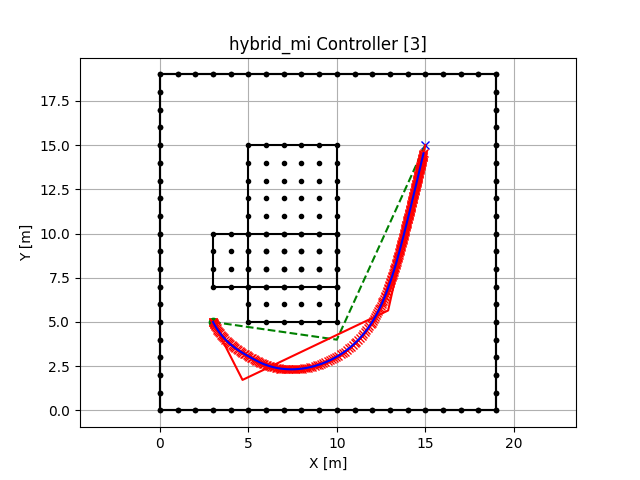
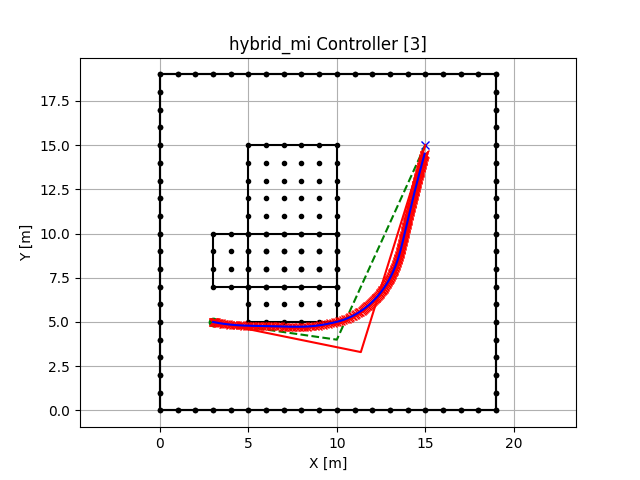
temp for test

Changed region(s): [[0.3125, 0.3125, 0.6875, 0.8125]]

diff --git a/controller/hybrid_mi_controller.py b/controller/hybrid_mi_controller.py
@@ -14,41 +14,50 @@ from controller.pure_pursuit_controller import PurePursuitController
 
 from route_planner.informed_trrt_star_planner import Pose, InformedTRRTStar
 
-def mutual_information(route1, route2):
-    """두 경로 간의 상호 정보를 계산"""
-    hist1, _ = np.histogram(route1, bins=20, density=True)
-    hist2, _ = np.histogram(route2, bins=20, density=True)
-    entropy1 = entropy(hist1)
-    entropy2 = entropy(hist2)
-    joint_hist, _, _ = np.histogram2d(route1[:, 0], route2[:, 0], bins=20, density=True)
-    joint_entropy = entropy(joint_hist.flatten())
-    mi = entropy1 + entropy2 - joint_entropy
-    nmi = mi / np.sqrt(entropy1 * entropy2) # normalized mutual information
-    return nmi
+# Mutual Information을 계산하는 함수
+def mutual_information(state1, state2):
+    """두 상태 간의 Mutual Information 계산"""
+    mi_list = []
+    
+    # x, y, theta, velocity 각각에 대해 Mutual Information 계산
+    for i in range(4):  # [x, y, theta, velocity]
+        hist1, _ = np.histogram(state1[:, i], bins=5, density=True)
+        hist2, _ = np.histogram(state2[:, i], bins=5, density=True)
+        print(f"State {i} Histograms: {hist1}, {hist2}")
+        
+        entropy1 = entropy(hist1)
+        entropy2 = entropy(hist2)
+        print(f"State {i} Entropy: {entropy1}, {entropy2}")
+        
+        joint_hist, _, _ = np.histogram2d(state1[:, i], state2[:, i], bins=5, density=True)
+        joint_entropy = entropy(joint_hist.flatten())
+        print(f"Joint Entropy: {joint_entropy}")
+        
+        # Mutual Information 계산
+        mi = entropy1 + entropy2 - joint_entropy
+        mi_list.append(mi)
+    
+    # 각 상태에 대한 Mutual Information 반환
+    return np.array(mi_list)
 
-def optimize_combined_path(state_mpc, state_pure_pursuit, mi):
-    """현재 스텝에서 두 경로를 상호 정보에 따라 결합하여 최적 경로 상태 생성"""
-    if mi > 0.5:  # 상호 정보가 낮을 때 하나의 경로를 더 선호
-        weight1 = 0.5
-        weight2 = 0.5
-    elif mi > 0.2:
-        weight1 = 0.8
-        weight2 = 0.2
-    elif mi < 0.2:
-        weight1 = 1
-        weight2 = 0
-
-    combined_x = weight1 * state_mpc[0] + weight2 * state_pure_pursuit[0]
-    combined_y = weight1 * state_mpc[1] + weight2 * state_pure_pursuit[1]
-    combined_theta = weight1 * state_mpc[2] + weight2 * state_pure_pursuit[2]
-
-    return np.array([combined_x, combined_y, combined_theta, state_mpc[3]])  # 속도는 MPC를 기준으로
+# 두 알고리즘의 상태를 결합하는 함수
+def combine_states(state1, state2, mi):
+    """Mutual Information 기반으로 상태를 결합"""
+    combined_state = np.zeros_like(state1)
+    
+    # Mutual Information을 바탕으로 각 상태에 가중치를 부여하여 결합
+    for i in range(4):  # [x, y, theta, velocity]
+        weight1 = mi[i] / (mi[i] + 1)  # Mutual Information 비율에 따른 가중치
+        weight2 = 1 - weight1
+        combined_state[:, i] = weight1 * state1[:, i] + weight2 * state2[:, i]
+    
+    return combined_state
 
 class HybridMIController(BaseController):
     def __init__(self, horizon, dt, wheelbase, map_instance):
         super().__init__(dt, wheelbase, map_instance)
         self.mpc_controller = AdaptiveMPCController(horizon=horizon, dt=dt, wheelbase=wheelbase, map_instance=map_instance)
-        self.pure_pursuit_controller = PurePursuitController(lookahead_distance=5.0, dt=dt, wheelbase=wheelbase, map_instance=map_instance)
+        # self.pure_pursuit_controller = PurePursuitController(lookahead_distance=5.0, dt=dt, wheelbase=wheelbase, map_instance=map_instance)
 
     def follow_trajectory(self, start_pose, ref_trajectory, goal_position, show_process=False):
         # 초기 상태 설정
@@ -56,31 +65,33 @@ class HybridMIController(BaseController):
         trajectory = [current_state.copy()]
 
         for i in range(len(ref_trajectory)):
-            if self.mpc_controller.is_goal_reached(current_state, goal_position):
+            if np.all(self.mpc_controller.is_goal_reached(current_state, goal_position)):
                 print("Goal reached successfully!")
                 break
 
             # MPC와 Pure Pursuit에서 각각의 상태 예측
             ref_segment = ref_trajectory[i:i + self.mpc_controller.horizon]
-            state_mpc = self.mpc_controller.optimize_control(current_state, ref_segment)
-            next_state_mpc = self.mpc_controller.apply_control(current_state, state_mpc)
+            ref_segment_interpole = transform_trajectory_with_angles(ref_segment[:3], num_points=4, last_segment_factor=1)
+            
+            control_input, best_predicted_states = self.mpc_controller.optimize_control(current_state, ref_segment)
+            # next_state_mpc = self.mpc_controller.apply_control(current_state, control_input)
 
-            target_state = self.pure_pursuit_controller.find_target_state(current_state, ref_trajectory)
-            steering_angle_pure_pursuit = self.pure_pursuit_controller.compute_control(current_state, target_state)
-            next_state_pure_pursuit = self.pure_pursuit_controller.apply_control(current_state, steering_angle_pure_pursuit, velocity=0.5)
+            # target_state = self.pure_pursuit_controller.find_target_state(current_state, ref_trajectory)
+            # steering_angle_pure_pursuit = self.pure_pursuit_controller.compute_control(current_state, target_state)
+            # next_state_pure_pursuit = self.pure_pursuit_controller.apply_control(current_state, steering_angle_pure_pursuit, velocity=0.5)
 
-            print(f"Next State MPC: {next_state_mpc}")
-            print(f"Next State Pure Pursuit: {next_state_pure_pursuit}")
+            print(f"Ref Trajectory: {ref_segment_interpole}")
+            print(f"Predicted State MPC: {best_predicted_states}")
 
             # 현재 스텝에서 두 경로 간의 Mutual Information 계산
-            mi = mutual_information(np.array([next_state_mpc]), np.array([next_state_pure_pursuit]))
+            mi = mutual_information(np.array(ref_segment_interpole), np.array(best_predicted_states))
             print(f"Mutual Information: {mi}")
 
             # 두 경로를 결합하여 최적 경로 생성
-            combined_state = optimize_combined_path(next_state_mpc, next_state_pure_pursuit, mi)
+            combined_state = combine_states(np.array(ref_segment_interpole), np.array(best_predicted_states), mi)
 
             # 다음 상태로 업데이트
-            current_state = combined_state
+            current_state = combined_state[0]
             trajectory.append(current_state)
 
             if show_process:
@@ -113,15 +124,16 @@ def main(map_type="ComplexGridMap"):
         print(f"Error in route generation: {e}")
         return
 
-    if len(rx_opt) == 0 or len(ry_opt) == 0:
+    if not isReached:
         print("TRRT* was unable to generate a valid path.")
         return
 
     ref_trajectory = transform_trajectory_with_angles(route_trajectory_opt)
 
-    mpc_controller = MPCController(horizon=10, dt=0.1, map_instance=map_instance, wheelbase=2.5)
-    pure_pursuit_controller = PurePursuitController(lookahead_distance=5.0, dt=0.1, wheelbase=2.5, map_instance=map_instance)
-    controller = HybridController(mpc_controller, pure_pursuit_controller)
+    horizon = 10  # MPC horizon
+    dt = 0.1  # Time step
+    wheelbase = 2.5  # Example wheelbase of the vehicle in meters
+    controller = HybridMIController(horizon=horizon, dt=dt, wheelbase=wheelbase, map_instance=map_instance)
 
     goal_position = [goal_pose.x, goal_pose.y]
     is_reached, trajectory_distance, trajectory  = controller.follow_trajectory(start_pose, ref_trajectory, goal_position, show_process=True)

diff --git a/controller/mpc_controller.py b/controller/mpc_controller.py
@@ -40,32 +40,39 @@ class MPCController(BaseController):
 
     def optimize_control(self, current_state, ref_trajectory):
         best_control = None
+        best_predicted_states = None
         min_cost = float('inf')
 
-        for v_ref in np.linspace(-1, 1, 7):  # Increased resolution for finer control
-            for delta_ref in np.linspace(-np.pi/6, np.pi/6, 7):  # Adjusted steering angle range
+        for v_ref in np.linspace(-1, 1, 7):  # 속도 범위를 세밀하게 설정
+            for delta_ref in np.linspace(-np.pi/6, np.pi/6, 7):  # 조향 각도 범위 설정
                 predicted_states = []
                 state = current_state
                 for _ in range(self.horizon):
                     state = self.apply_control(state, (v_ref, delta_ref))
-                    predicted_states.append(state)
+                    predicted_states.append(list(state))
 
-                # Ensure that the predicted states and reference trajectory have matching lengths
+                # predicted states와 reference trajectory 길이를 맞춤
                 if len(predicted_states) > len(ref_trajectory):
                     predicted_states = predicted_states[:len(ref_trajectory)]
 
-                # Check if all predicted states are collision-free
+                # 충돌 여부를 확인
                 if all(self.is_collision_free(state, s) for s in predicted_states):
                     cost = self.compute_cost(predicted_states, ref_trajectory)
                     if cost < min_cost:
                         min_cost = cost
                         best_control = (v_ref, delta_ref)
+                        best_predicted_states = predicted_states
 
-        # If no control was found, default to a small forward motion
+        # best_control이 없을 때, 기본 움직임을 설정하고 최소한의 예측 상태 생성
         if best_control is None:
-            best_control = (0.1, 0.0)
+            best_control = (0.1, 0.0)  # 기본값: 천천히 직진
+            # best_predicted_states = []
+            # state = current_state
+            # for _ in range(self.horizon):
+            #     state = self.apply_control(state, best_control)
+            #     best_predicted_states.append(list(state))
 
-        return best_control
+        return best_control, best_predicted_states
 
     def follow_trajectory(self, start_pose, ref_trajectory, goal_position, show_process=False):
         # Initialize the state and trajectory

diff --git a/utils.py b/utils.py
@@ -25,16 +25,16 @@ def transform_trajectory_with_angles(trajectory, num_points=50, velocity=1.0, la
 
     for i in range(n - 1):
         # Get segment start and end
-        x_start, y_start = trajectory[i]
-        x_end, y_end = trajectory[i + 1]
+        x_start, y_start = trajectory[i][:2]
+        x_end, y_end = trajectory[i + 1][:2]
         
         # Calculate angle for current segment
         theta_current = calculate_angle(x_start, y_start, x_end, y_end)
         
         # Calculate angle for the next segment
         if i < n - 2:
-            x_next_start, y_next_start = trajectory[i + 1]
-            x_next_end, y_next_end = trajectory[i + 2]
+            x_next_start, y_next_start = trajectory[i + 1][:2]
+            x_next_end, y_next_end = trajectory[i + 2][:2]
             theta_next = calculate_angle(x_next_start, y_next_start, x_next_end, y_next_end)
         else:
             # Use the same angle for the last segment if there's no next segment
